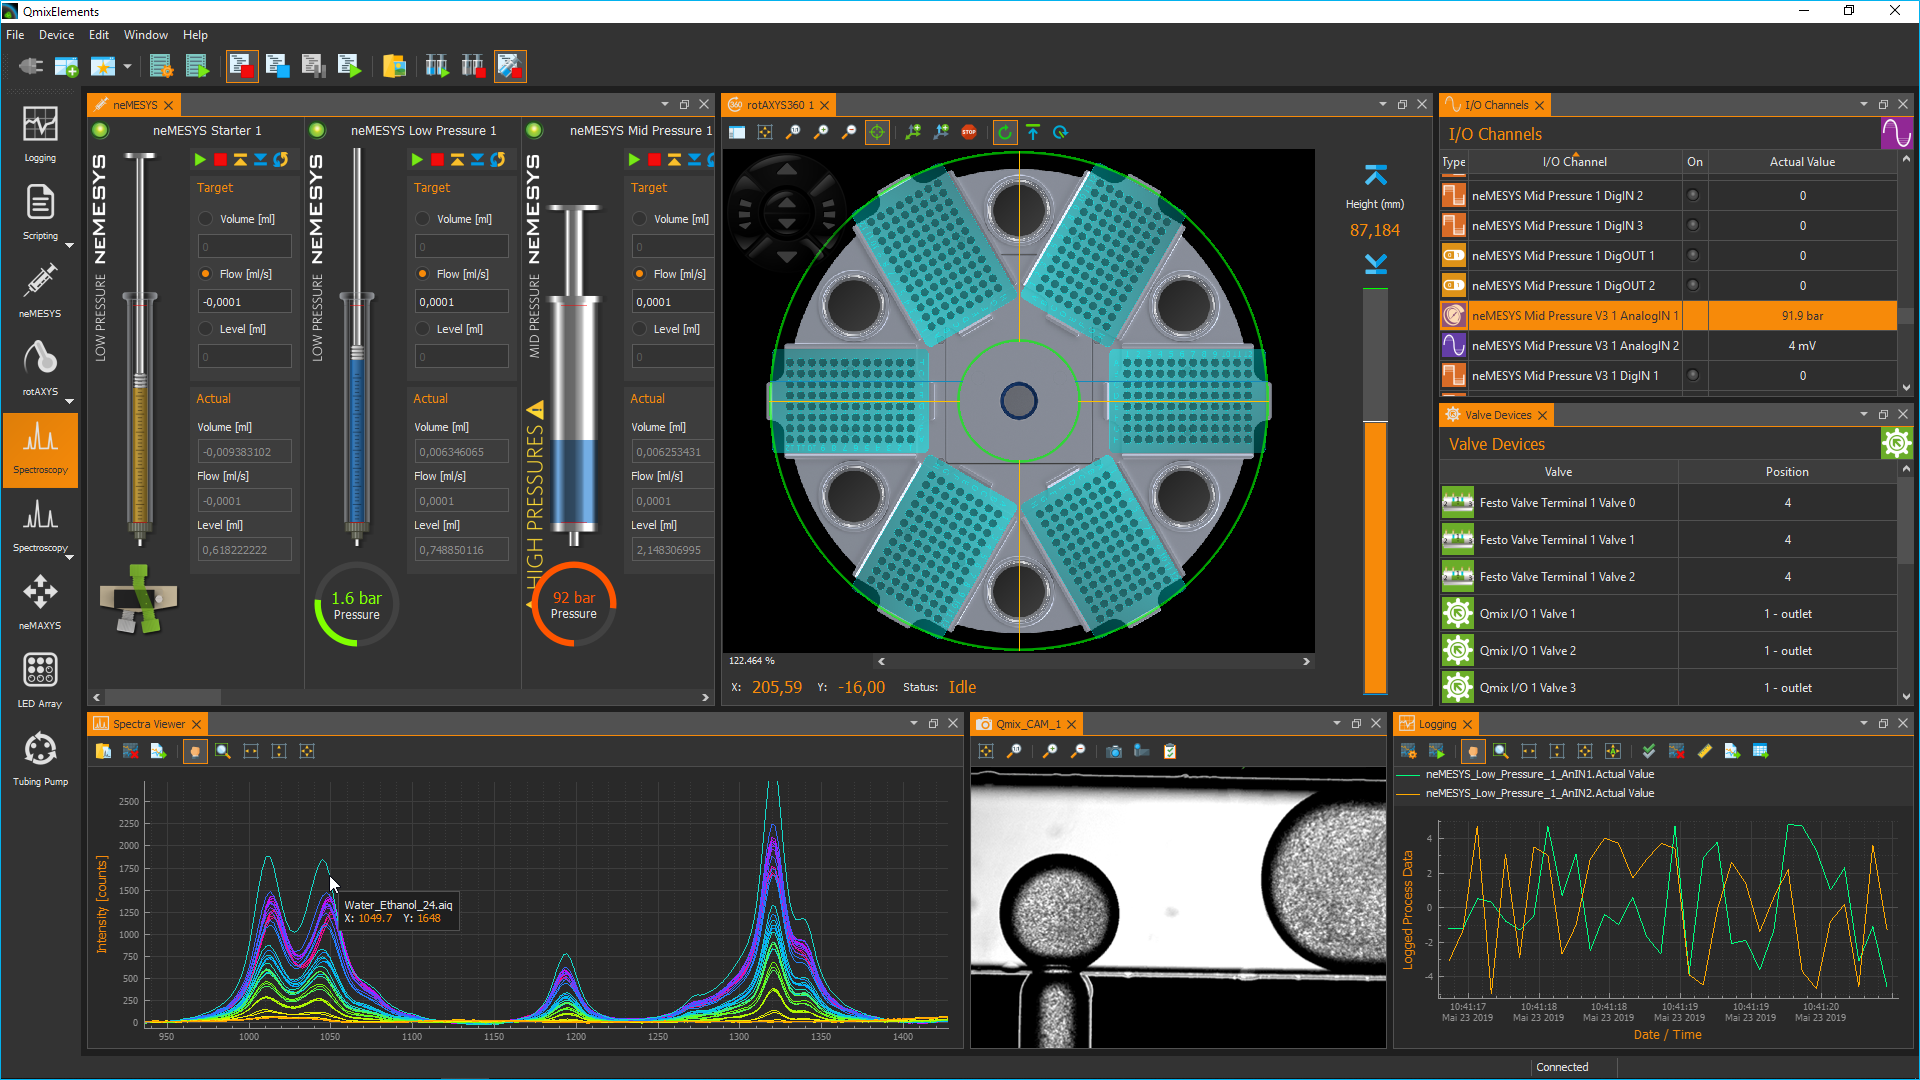
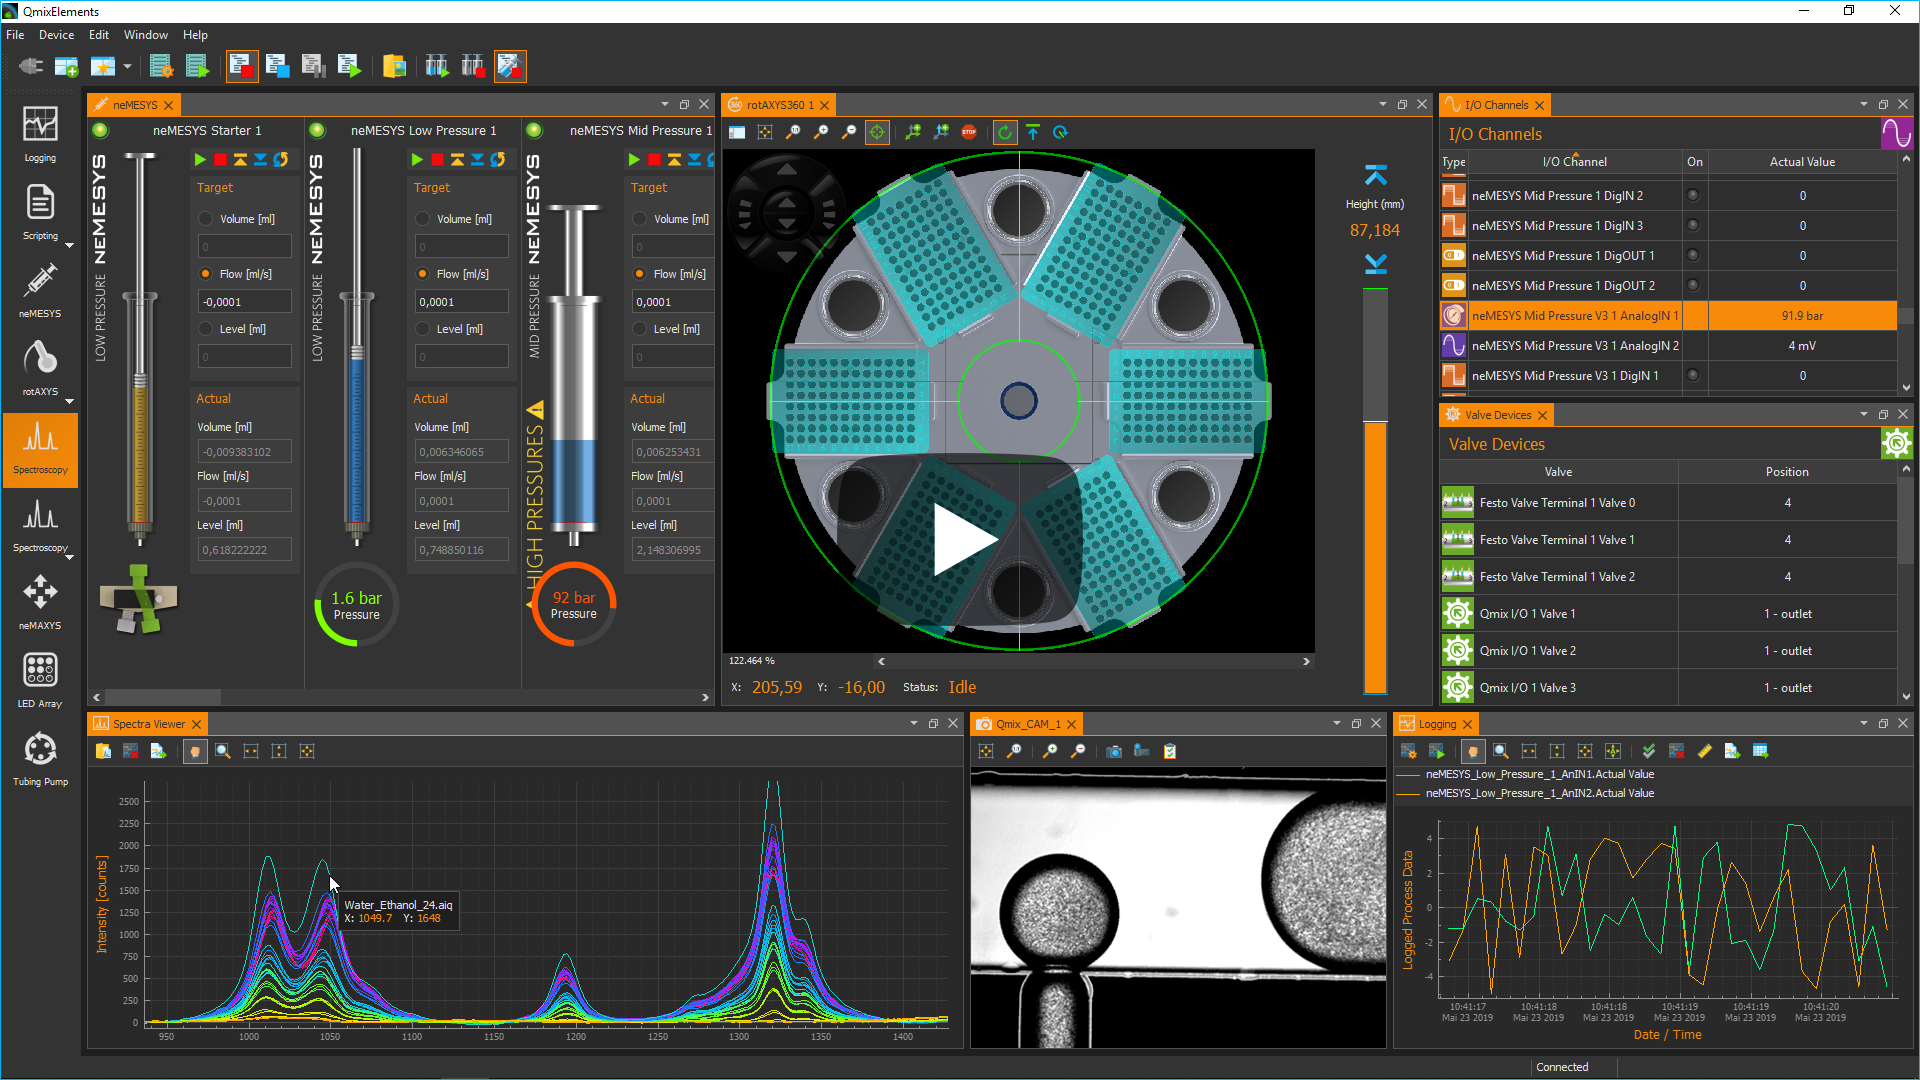
Improved showcase section in README.md

Changed region(s): [[0.4375, 0.3972, 0.5625, 0.5806]]

diff --git a/README.md b/README.md
@@ -385,12 +385,14 @@ Taken from the [Qt Blog](https://www.qt.io/blog/qt-design-studio-1.5-beta-releas
 
 [![Qt Design Studio](doc/showcase_qt_design_studio_video.png)](https://youtu.be/za9KBWcFXEw?t=84)
 
-### [CETONI Elements](https://www.cetoni.com/products/qmixelements/)
+### [CETONI Elements](https://cetoni.com/cetoni-elements/)
 
 The CETONI Elements software from [CETONI](https://www.cetoni.com) is a comprehensive,
 plugin-based and modular laboratory automation software for controlling CETONI devices using a joint graphical user interface. The software features a powerful script system to automate processes. The software uses the advanced docking system to give the user the freedom to arrange all the views and windows that are provided by the various plugins.
 
-![CETONI_Elements](doc/showcase_qmix_elements.png)
+[learn more...](https://cetoni.com/cetoni-elements/)
+
+[![CETONI_Elements](doc/showcase_qmix_elements.png)](https://www.youtube.com/watch?v=7pdNfafg3Qc)
 
 ### [ezEditor](https://github.com/ezEngine/ezEngine)
 
@@ -406,7 +408,7 @@ D-Tect X is a X-ray inspection software for industrial radiography. It is a stat
 
 [learn more...](https://www.duerr-ndt.com/products/ndt-software/d-tect-xray-inspection-software.html)
 
-![D-TectX](doc/showcase_d-tect-x.jpg)
+[![D-TectX](doc/showcase_d-tect-x.png)](https://youtu.be/mOor7GmmIJo?t=13)
 
 ### [HiveWE](https://github.com/stijnherfst/HiveWE)
 
